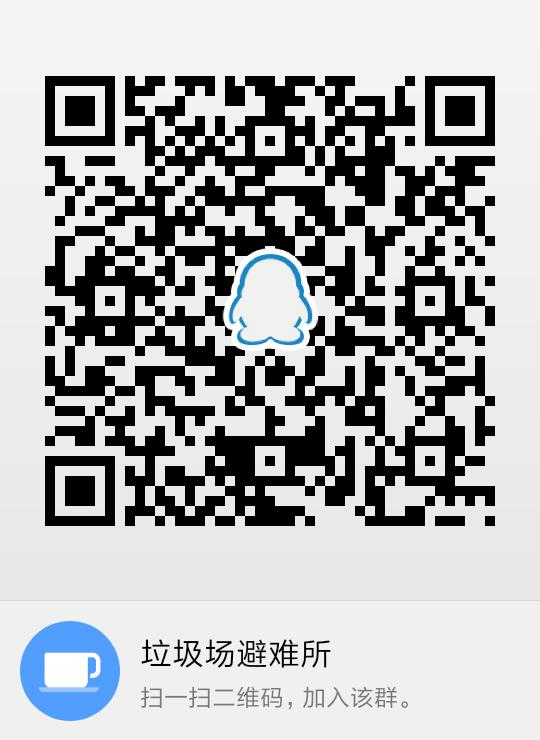
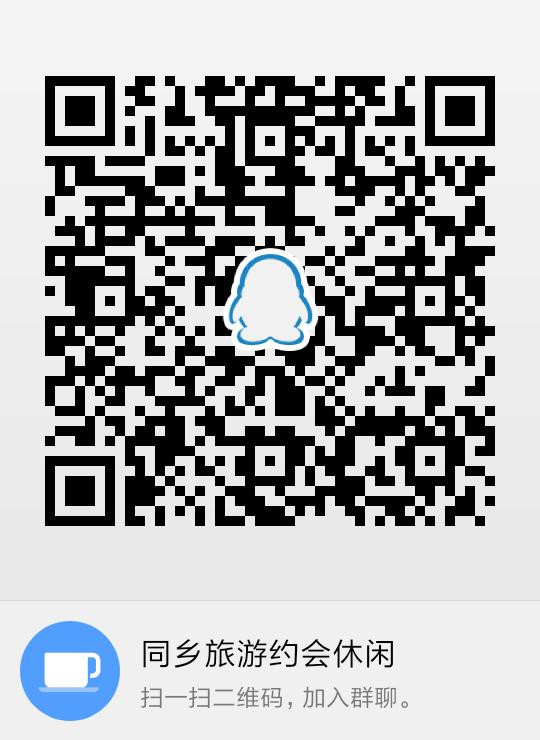
update

Changed region(s): [[0.0593, 0.0932, 0.9185, 0.7149], [0.2667, 0.8392, 0.7407, 0.9014], [0.6519, 0.9324, 0.7407, 0.9635]]

diff --git a/index.html b/index.html
@@ -3,7 +3,7 @@
 	<head>
 		<meta http-equiv="Content-Type" content="text/html; charset=utf-8" />
 		<meta name="viewport" content="width=device-width, initial-scale=1, minimum-scale=1, maximum-scale=1, user-scalable=no">
-		<title>朱村垃圾厂讨论群联系方式</title>
+		<title>同乡旅游约会休闲</title>
 		<link rel="stylesheet" href="https://cdn.bootcss.com/bootstrap/4.0.0/css/bootstrap.min.css" integrity="sha384-Gn5384xqQ1aoWXA+058RXPxPg6fy4IWvTNh0E263XmFcJlSAwiGgFAW/dAiS6JXm" crossorigin="anonymous">
 		<style type="text/css">
 			img{
@@ -13,6 +13,7 @@
 	</head>
 <body>
 	<div class="container">
+		<h1 align="center" style="margin:20px 0 20px 0;">同乡旅游约会休闲群联系方式</h1>
 		<div class="row">
 			<div class="col-lg-12 col-md-12 col-sm-12">
 				<font color="#ff0000" size="6">QQ群1:761876394</font>
@@ -25,12 +26,7 @@
 				
 			</div>
 		</div>
-		<div class="row">
-			<div class="col-lg-12 col-md-12 col-sm-12">
-				<font color="#ff0000" size="6">QQ群3:暂无</font>
-				
-			</div>
-		</div>
+		
 
 		<div class="row">
 			<div class="col-lg-12 col-md-12 col-sm-12">
@@ -43,12 +39,7 @@
 				
 			</div>
 		</div>
-		<div class="row">
-			<div class="col-lg-12 col-md-12 col-sm-12">
-				<font color="#ff0000" size="6">微信群3:暂无</font>
-				
-			</div>
-		</div>
+		
 	</div>
 
 </body>
